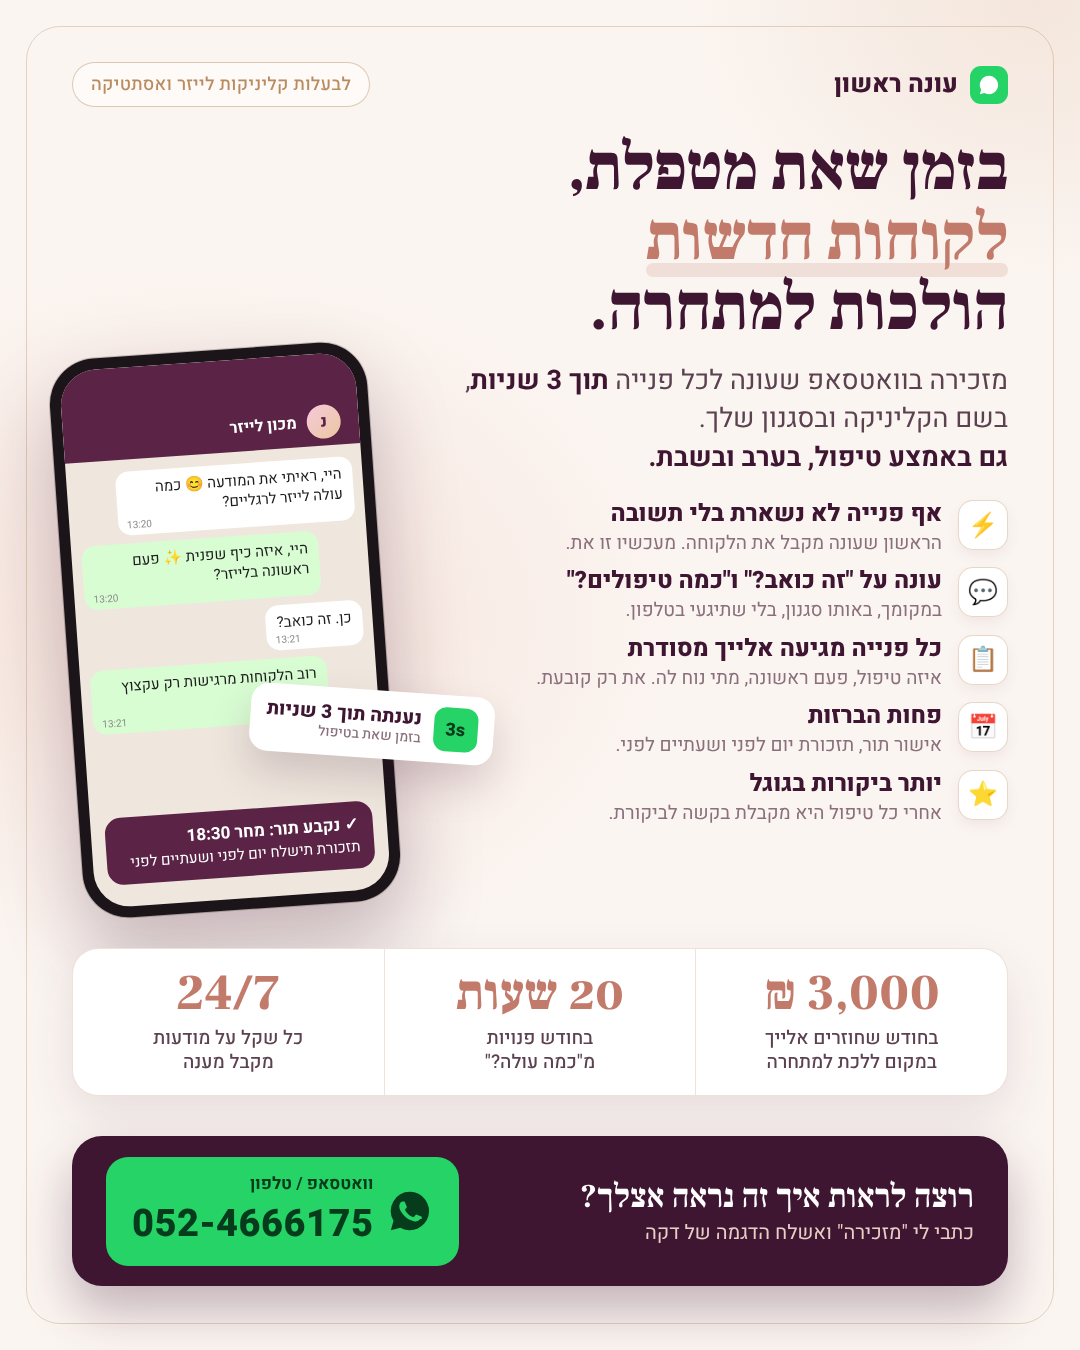
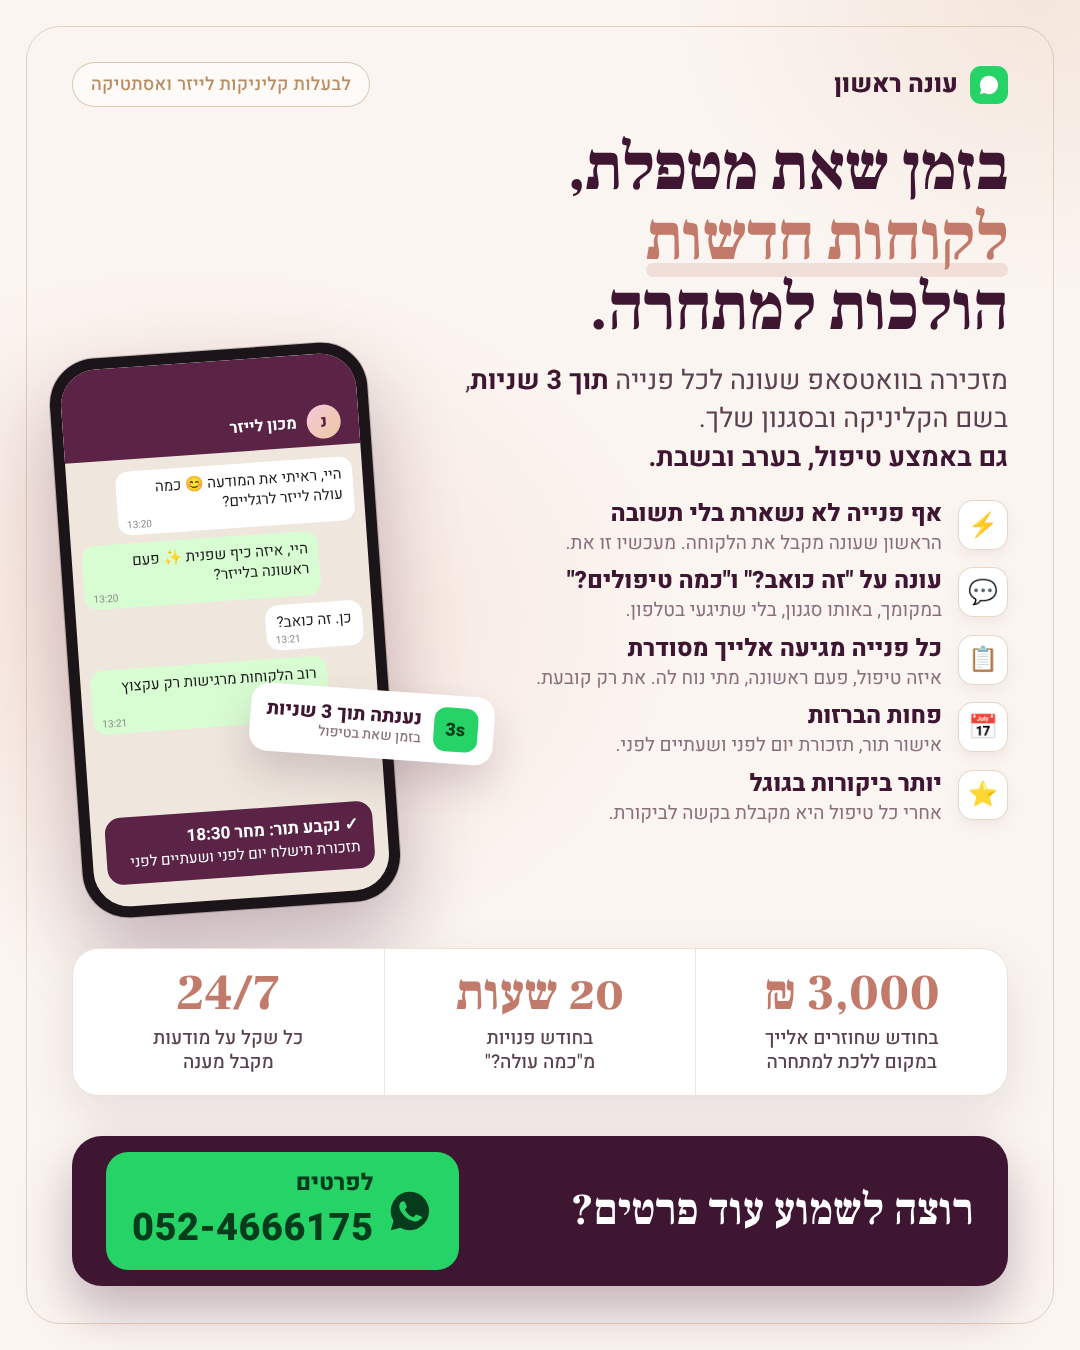
Clinic combined ad: CTA 'want more details?' + details button
Claude-Session: https://claude.ai/code/session_01ASRMwiCmV7VLN1LwrbbDK1

Changed region(s): [[0.0917, 0.84, 0.4278, 0.9333], [0.5194, 0.8711, 0.9167, 0.9333]]

diff --git a/automation-agency/marketing/organic/src/combo.html b/automation-agency/marketing/organic/src/combo.html
@@ -46,11 +46,11 @@ h1 em:after{content:"";position:absolute;right:0;left:0;bottom:4px;height:14px;b
 .s span{display:block;font-size:19px;font-weight:500;color:#5c4250;margin-top:8px;line-height:1.25}
 /* cta */
 .cta{position:absolute;bottom:64px;right:72px;left:72px;height:150px;background:var(--plum);border-radius:30px;display:flex;align-items:center;justify-content:space-between;padding:0 34px;color:#fff;box-shadow:0 24px 50px rgba(62,22,49,.3)}
-.cta .t{font-family:'Frank Ruhl Libre',serif;font-weight:700;font-size:33px;line-height:1.2}
+.cta .t{font-family:'Frank Ruhl Libre',serif;font-weight:700;font-size:44px;line-height:1.2}
 .cta .t small{display:block;font-family:Heebo;font-weight:400;font-size:20px;color:#E8CFC4;margin-top:4px}
 .cta .btn{display:flex;align-items:center;gap:14px;background:var(--wa);color:#063b1c;border-radius:22px;padding:14px 26px}
 .cta .btn svg{width:46px;height:46px}
-.cta .btn small{display:block;font-weight:700;font-size:17px}
+.cta .btn small{display:block;font-weight:800;font-size:23px}
 .cta .btn b{font-weight:900;font-size:38px;direction:ltr;display:block;letter-spacing:.5px}
 </style></head><body>
 <div class="top"><div class="brand"><i><svg viewBox="0 0 24 24" fill="#fff"><path d="M12 2a10 10 0 0 0-8.6 15.1L2 22l5-1.3A10 10 0 1 0 12 2z"/></svg></i>עונה ראשון</div><div class="who">לבעלות קליניקות לייזר ואסתטיקה</div></div>
@@ -85,7 +85,7 @@ h1 em:after{content:"";position:absolute;right:0;left:0;bottom:4px;height:14px;b
 </div>
 
 <div class="cta">
-  <div class="t">רוצה לראות איך זה נראה אצלך?<small>כתבי לי "מזכירה" ואשלח הדגמה של דקה</small></div>
-  <div class="btn"><svg viewBox="0 0 24 24" fill="#063b1c"><path d="M12 2a10 10 0 0 0-8.6 15.1L2 22l5-1.3A10 10 0 1 0 12 2zm5.3 14.2c-.2.6-1.3 1.2-1.8 1.2-.5.1-1 .2-3.3-.7-2.8-1.1-4.5-3.9-4.7-4.1-.1-.2-1.1-1.5-1.1-2.9s.7-2.1 1-2.4c.3-.3.6-.3.8-.3h.6c.2 0 .4 0 .6.5l.9 2.1c.1.2.1.4 0 .5l-.3.5-.4.4c-.1.1-.3.3-.1.6.2.3.8 1.3 1.6 2.1 1.1 1 2.1 1.3 2.4 1.4.3.1.5.1.6-.1l.9-1c.2-.3.4-.2.6-.1l2 .9c.3.1.5.2.5.3.1.2.1.7-.1 1.1z"/></svg><div><small>וואטסאפ / טלפון</small><b>052-4666175</b></div></div>
+  <div class="t">רוצה לשמוע עוד פרטים?</div>
+  <div class="btn"><svg viewBox="0 0 24 24" fill="#063b1c"><path d="M12 2a10 10 0 0 0-8.6 15.1L2 22l5-1.3A10 10 0 1 0 12 2zm5.3 14.2c-.2.6-1.3 1.2-1.8 1.2-.5.1-1 .2-3.3-.7-2.8-1.1-4.5-3.9-4.7-4.1-.1-.2-1.1-1.5-1.1-2.9s.7-2.1 1-2.4c.3-.3.6-.3.8-.3h.6c.2 0 .4 0 .6.5l.9 2.1c.1.2.1.4 0 .5l-.3.5-.4.4c-.1.1-.3.3-.1.6.2.3.8 1.3 1.6 2.1 1.1 1 2.1 1.3 2.4 1.4.3.1.5.1.6-.1l.9-1c.2-.3.4-.2.6-.1l2 .9c.3.1.5.2.5.3.1.2.1.7-.1 1.1z"/></svg><div><small>לפרטים</small><b>052-4666175</b></div></div>
 </div>
 </body></html>
